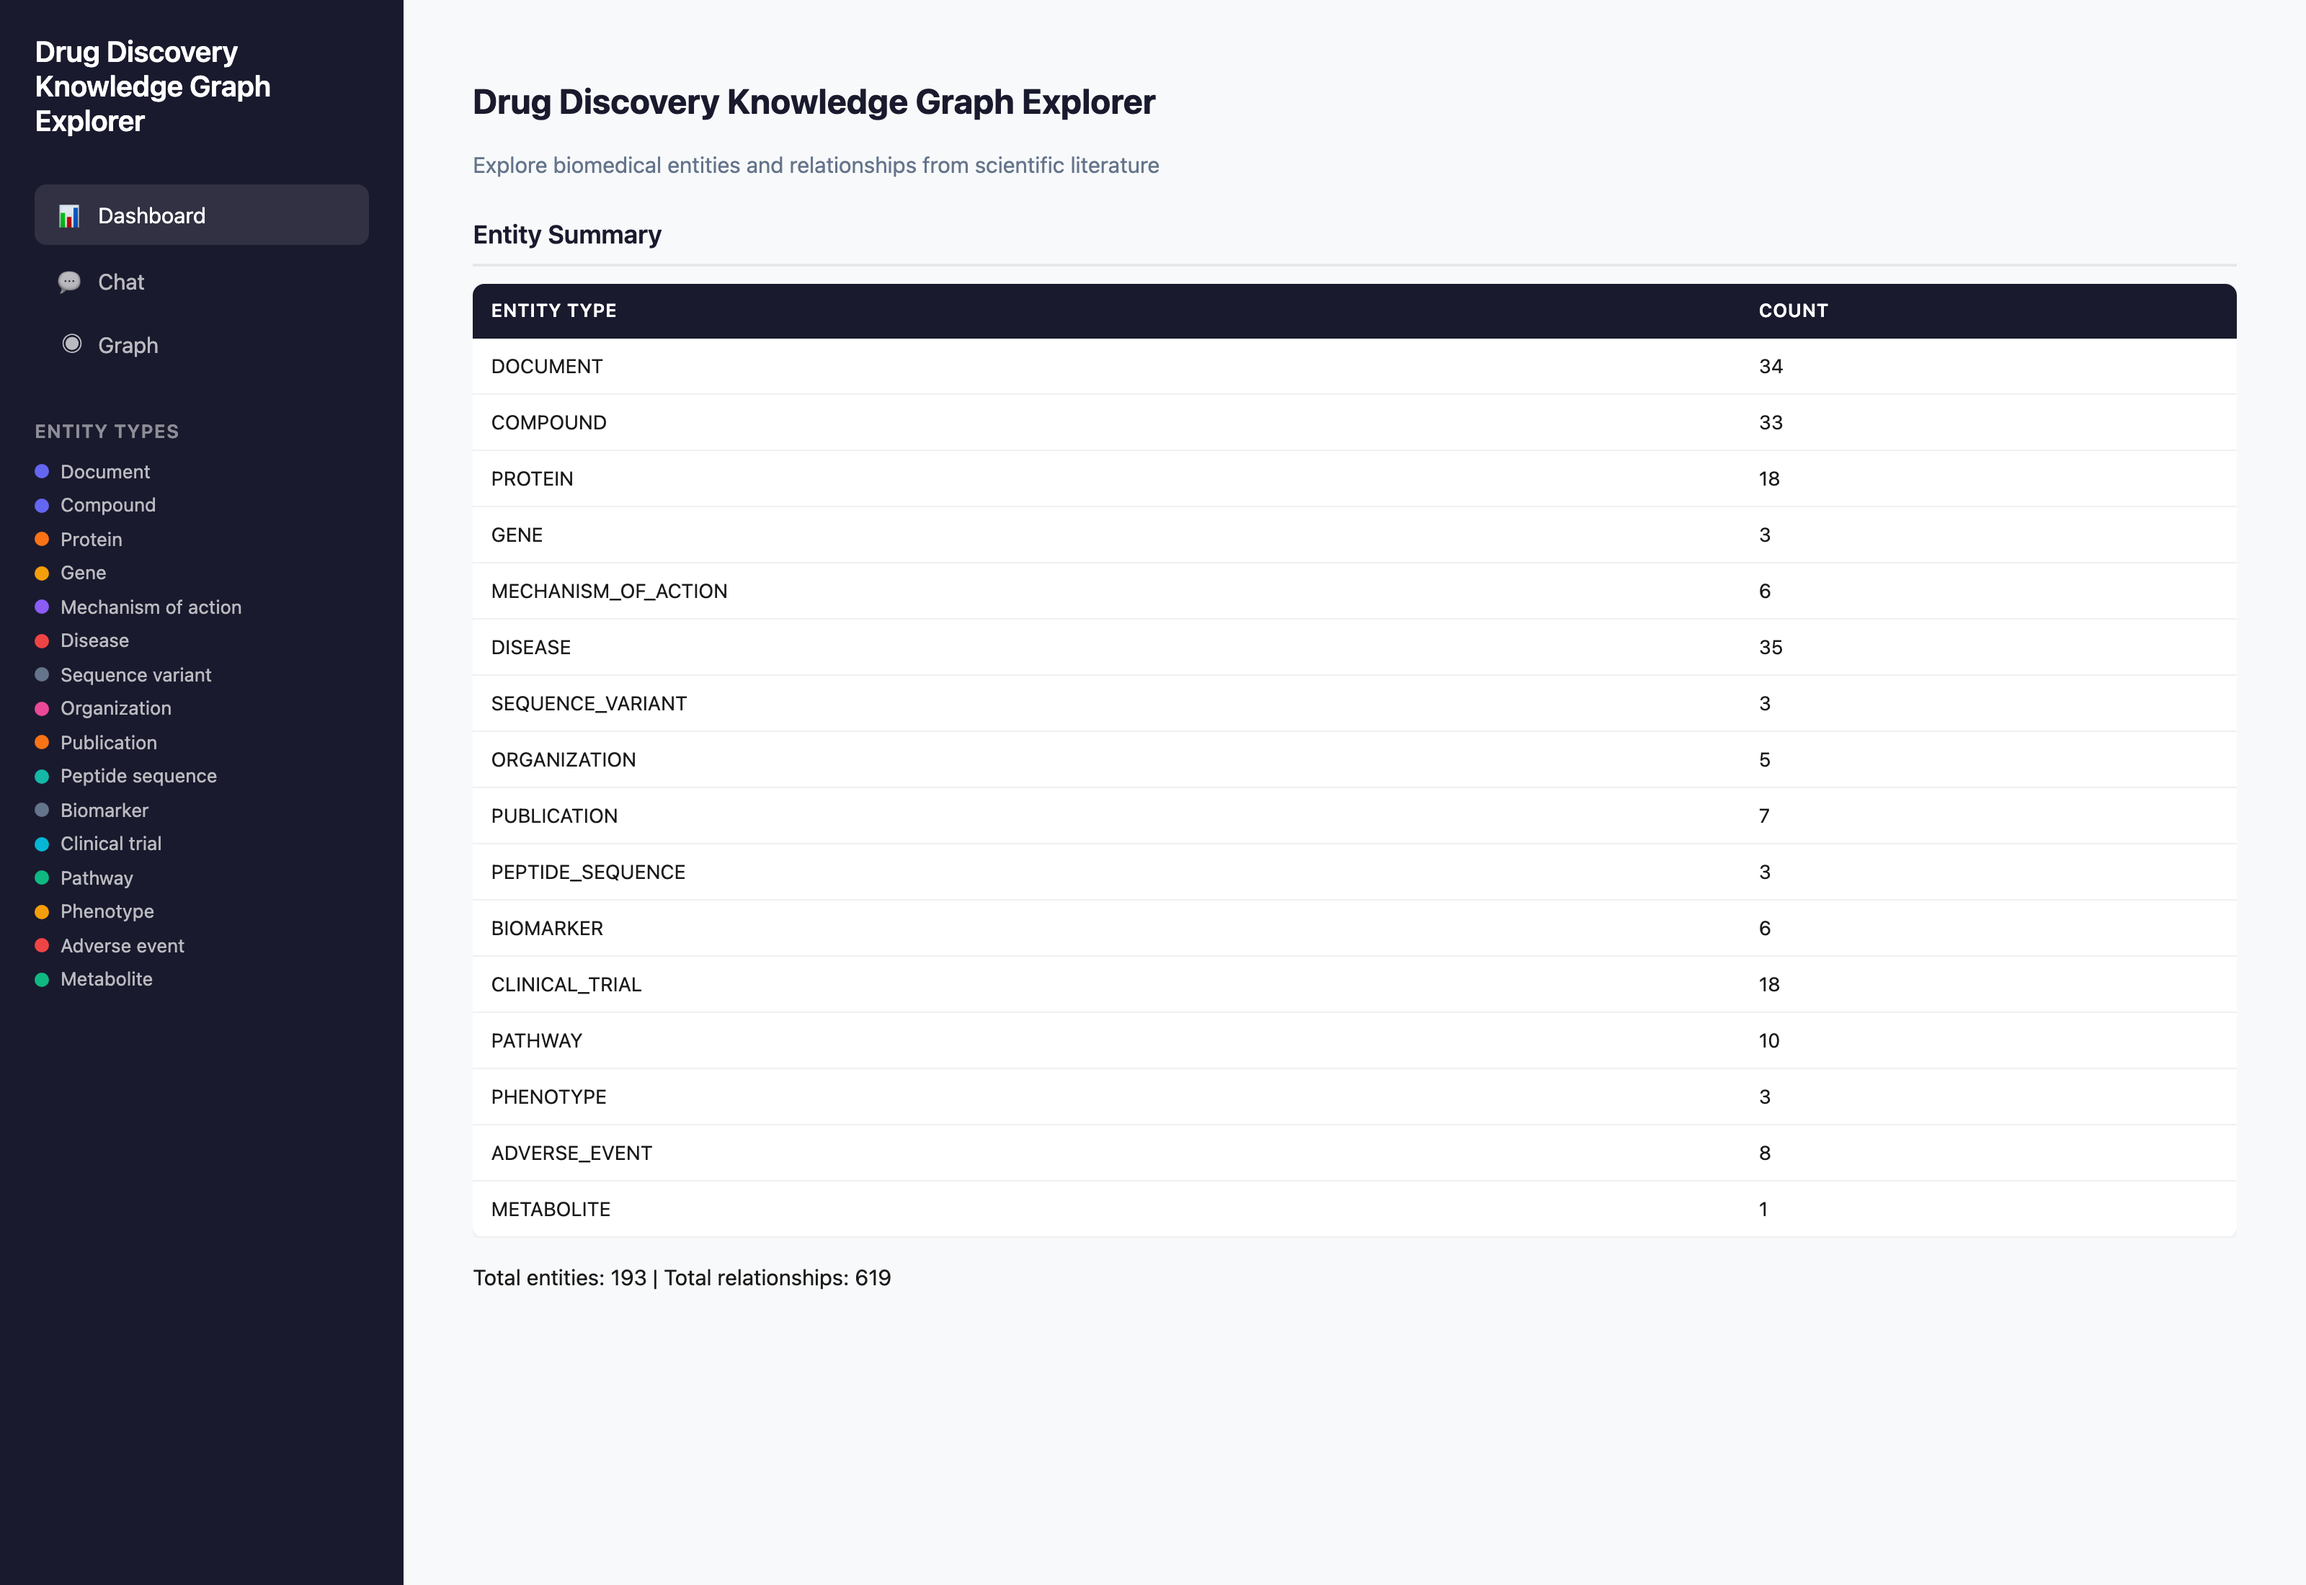
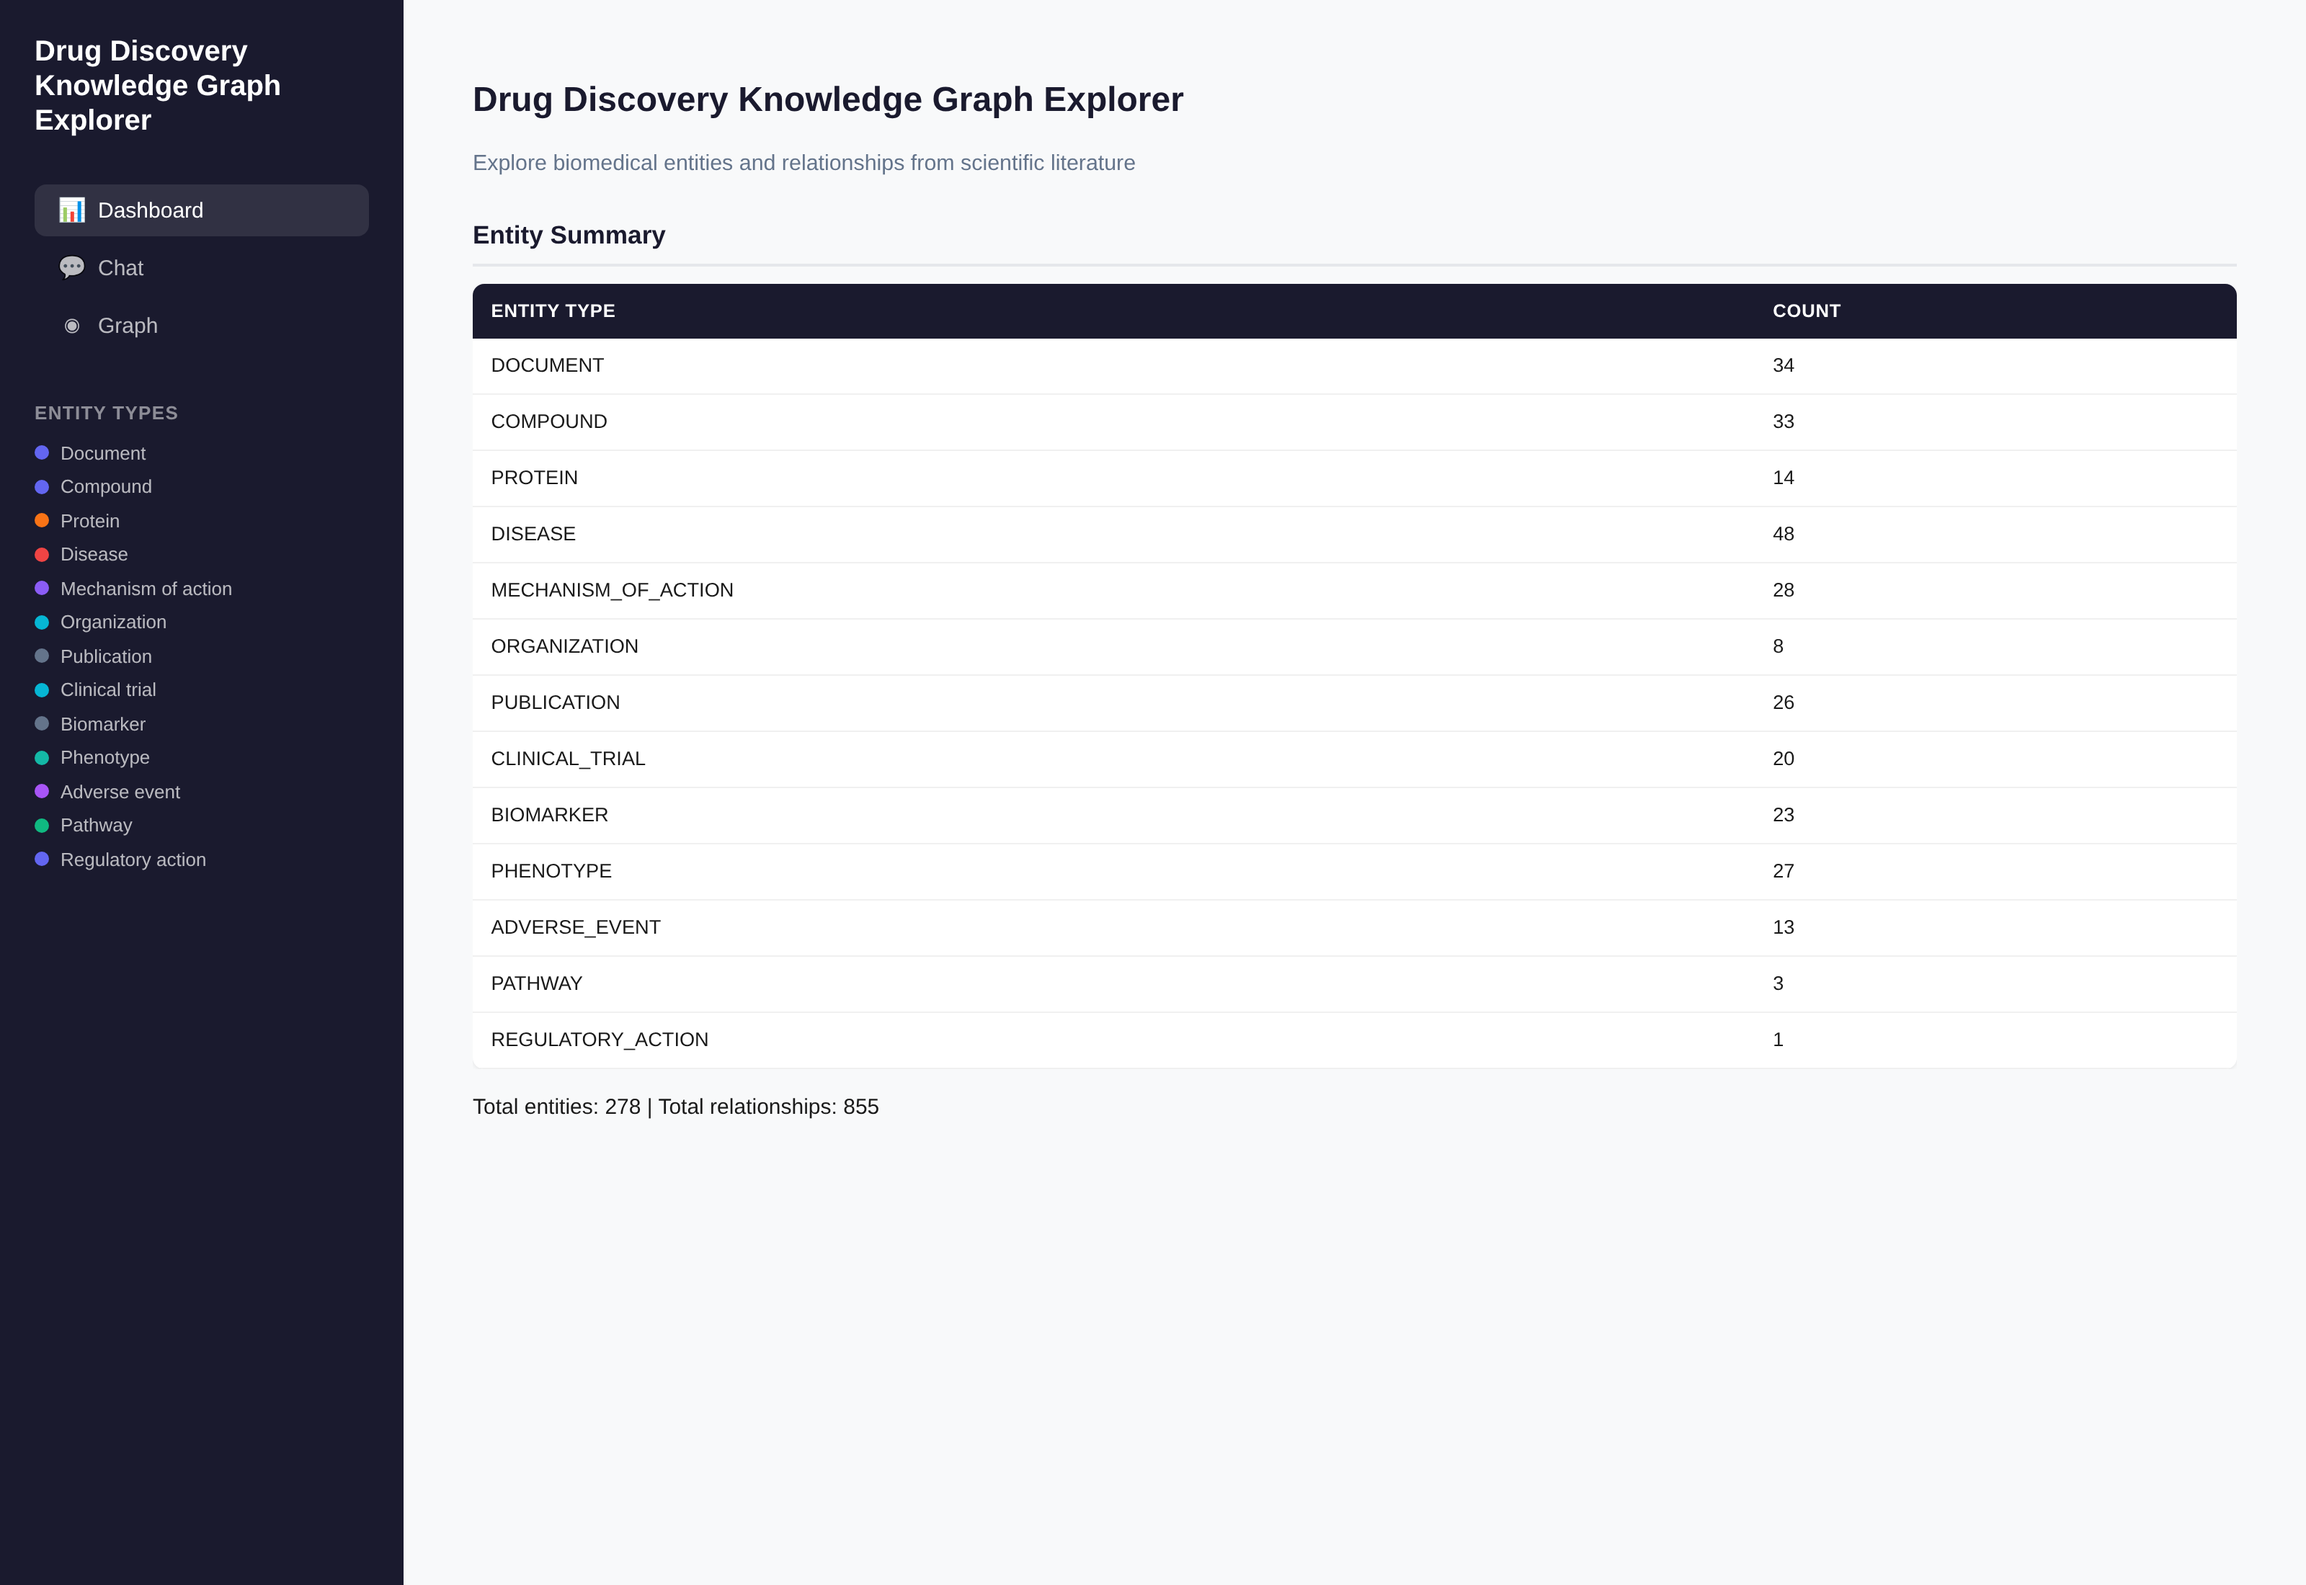
docs(screenshots): refresh workbench screenshots for current UI
UI changes now shown: 6 starter questions, Clear / cost-sort / model picker
in the input bar, graph filter row plus Fit View / Reset Pins, and the S8
title "FDA Product Labels Knowledge Graph Explorer".

Sample data: S6 tests/corpora/06_glp1_landscape/output-v3 (278 entities /
855 relations); S7 tests/corpora/07_glp1_phase3_trials/output; S8
tests/corpora/08_fda_labels/output. Chat answers produced by a free
OpenRouter model.

Captions updated in WORKBENCH.md and DOMAINS.md to match.

diff --git a/docs/WORKBENCH.md b/docs/WORKBENCH.md
@@ -60,19 +60,19 @@ Auto-generated entity summary for the loaded graph — entity types with dedupli
 
 ![Workbench Chat — welcome](screenshots/workbench-02-chat-welcome.png)
 
-The chat panel reads its title, body text, placeholder, starter questions, and system-prompt **persona** from `domains/<name>/workbench/template.yaml`. Switch domains and the entire chat persona changes — the same workbench code works for any domain.
+The chat panel reads its title, body text, placeholder, starter questions, and system-prompt **persona** from `domains/<name>/workbench/template.yaml`. Switch domains and the entire chat persona changes — the same workbench code works for any domain. The input bar has a Clear button to reset the conversation and a model picker (with a cost-sort toggle) for choosing which model answers.
 
 ### Graph — visual exploration
 
 ![Workbench Graph Panel — S6 GLP-1](screenshots/workbench-03-graph-glp1.png)
 
-Full knowledge graph rendered in the workbench: nodes color-coded by entity type, community clusters, entity-type filter pills at the top, search bar for direct entity lookup. Pan, zoom, click any node to see neighborhood context; toggle entity types on and off to isolate sub-graphs.
+Full knowledge graph rendered in the workbench: nodes color-coded by entity type, community clusters, and a search bar for direct entity lookup. Above the graph sit entity-type and epistemic-status filter pills, a confidence threshold slider, a relation-type filter, a minimum-connections slider, and Fit View / Reset Pins buttons. Pan, zoom, click any node to see neighborhood context; toggle entity types and the other filters to isolate sub-graphs.
 
 ### Chat — epistemic layer in action
 
 ![Workbench Chat — prophetic patent claims](screenshots/workbench-04-chat-epistemic.png)
 
-Ask *"Which patents make prophetic claims about new indications?"* and the chat panel surfaces the prophetic claims the epistemic layer identified. With the drug-discovery persona active, Claude produces a structured analysis: per-patent prophetic claims, status flags, grouped summaries, and a meta-analysis highlighting the biggest gaps between prophetic claims and commercial reality. This is the cross-document synthesis the workbench is designed for.
+Ask *"Which patents make prophetic claims and how do they compare to the asserted clinical evidence?"* and the chat panel surfaces the prophetic claims the epistemic layer identified. With the drug-discovery persona active, the selected model (whichever is chosen in the input bar's model picker) produces a structured analysis: per-patent prophetic claims, status flags, a comparison against the asserted clinical evidence, and a meta-analysis highlighting the biggest gaps between prophetic claims and commercial reality. This is the cross-document synthesis the workbench is designed for.
 
 ## What You Can Do
 

diff --git a/docs/DOMAINS.md b/docs/DOMAINS.md
@@ -48,7 +48,7 @@ All five live in `domains/` as self-contained packages — schemas are human-rea
 
 - **Showcase doc:** [`SHOWCASE-FDA.md`](SHOWCASE-FDA.md)
 - **Auto-generated analyst briefing:** [`tests/corpora/08_fda_labels/output/epistemic_narrative.md`](../tests/corpora/08_fda_labels/output/epistemic_narrative.md)
-- **Workbench screenshots:** [dashboard panel](screenshots/fda-labels-01-dashboard.png) · [chat welcome](screenshots/fda-labels-02-chat-welcome.png) · [graph panel](screenshots/fda-labels-03-graph.png) · [chat on epistemic](screenshots/fda-labels-04-chat-epistemic.png)
+- **Workbench screenshots:** [dashboard panel](screenshots/fda-labels-01-dashboard.png) · [chat welcome](screenshots/fda-labels-02-chat-welcome.png) · [graph panel](screenshots/fda-labels-03-graph.png) · [chat on boxed warnings](screenshots/fda-labels-04-chat-epistemic.png)
 - **Interactive graph** (clone + open locally): [`tests/corpora/08_fda_labels/output/graph.html`](../tests/corpora/08_fda_labels/output/graph.html)
 - **Scenario doc:** [`tests/scenarios/scenario-08-fda-product-labels.md`](../tests/scenarios/scenario-08-fda-product-labels.md)
 - **Raw corpus:** [`tests/corpora/08_fda_labels/docs/`](../tests/corpora/08_fda_labels/docs/) (7 SPL label files)
